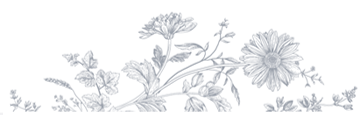
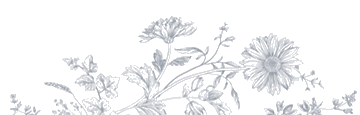
사이즈 수정

Changed region(s): [[0.0306, 0.1043, 1.0, 1.0]]

diff --git a/assets/scss/_partial/_title.scss b/assets/scss/_partial/_title.scss
@@ -14,7 +14,7 @@ $black : #222;
 
 section{
     &.cover{
-        padding: 10vh 15vw;
+        padding: 15vh 15vw;
         height: 80vh;
         border-bottom-left-radius: rem(100);
         border-bottom-right-radius: rem(100);
@@ -28,11 +28,17 @@ section{
     &.contWrapper{
         background: $bgColor;
     }
+    .upper,
+    .sub{
+        text-align: center;
+        color: $pointColor;
+        font-family: 'Great Vibes', cursive;
+    }
 }
 
 //weddingday
 .arch{
-    height: 20px;
+    height: 24px;
     position: relative;
     span{
         position: absolute;
@@ -57,12 +63,8 @@ section{
         text-align: center;
         // background: rgba(0,0,0,0.2);
     }
-    .upper,
-    .sub{
-        color: $pointColor;
-    }
-    .upper{
-        font-family: 'Great Vibes', cursive;
+    .year{
+        font-family: 'Gowun Batang', serif;
     }
     .main{
         margin-top: 6vh;
@@ -76,7 +78,7 @@ section{
             font-weight: 500;
         }
         h1{
-            font-size: 10vw;
+            font-size: rem(50);
             font-weight: normal;
             text-align: left;
             &.day{
@@ -97,9 +99,8 @@ section{
         }
         .name{
             margin-top: 7vh;
-            font-size: 4vw;
             span{
-                font-size: 3vw;
+                font-size: rem(16);
             }
         }
     }
@@ -120,9 +121,10 @@ section{
     }
     h3{
         color: $secondaryColor;
+        font-size: rem(16);
         font-family: 'NotoSansKR', sans-serif;
-        font-size: 3vw;
         font-weight: normal;
+        text-transform: uppercase;
         position: relative;
         &::after{
             content:'';
@@ -135,7 +137,7 @@ section{
         }
     }
     .cont{
-        margin-top: rem(70);
+        margin-top: rem(50);
         color: $mainColor;
     }    
 }
@@ -144,13 +146,11 @@ section{
 .invitation{
     .greeting{
         margin-top: rem(25);
-        font-size: 3vw;
-        line-height: 5vh;
+        line-height: 1.6;
     }
     .info{
         margin-top: rem(80);
-        font-size: 3vw;
-        line-height: 5vh;
+        line-height: 1.6;
         text-align: right;
         .space{
             margin-top: rem(30);
@@ -162,6 +162,7 @@ section{
         margin-top: rem(70);
         padding: rem(12) rem(30);
         color: $white;
+        font-size: rem(18);
         border-radius: rem(35);
         background: $secondaryColor;
     }
@@ -206,11 +207,12 @@ section{
 //달력
 .calendar{
     .cont{
+        margin-top: rem(10);
         padding: 0 rem(15);
         text-align: center;
     }
     .month{
-        font-size: 5vw;
+        font-size: rem(24);
     }
     table{
         margin: rem(60) 0;
@@ -255,12 +257,14 @@ section{
             }
         }
     }
+    .wDay{
+        font-weight: bold;
+    }
 }
 
 //save
 .save{
     padding: 1.875rem 0 !important;
-    font-size: 4vw;
     letter-spacing: 3px;
     text-align: center;
     text-transform: uppercase;
@@ -270,7 +274,7 @@ section{
 //교통
 .traffic{
     .means{
-        font-size: 3vw;
+        color: $secondaryColor;
         // font-family: "NotoSansKR", sans-serif;   
     }
     .info{
@@ -338,7 +342,7 @@ section{
             }
         }
         button{
-            padding: rem(9);
+            padding: rem(3) rem(9);
             color: $mainColor;
             background: transparent;
             border-radius: 4px;
@@ -355,6 +359,6 @@ section{
 .ending{
     text-align: center;
     color: $secondaryColor;
-    background: url(../img/endBg.png) no-repeat;
-    background-position: center bottom 0;
+    background: url(../img/endBg.png) bottom center;
+    background-repeat-y: no-repeat;
 }

diff --git a/assets/css/style.css b/assets/css/style.css
@@ -70,7 +70,7 @@ body {
 }
 
 section.cover {
-  padding: 10vh 15vw;
+  padding: 15vh 15vw;
   height: 80vh;
   border-bottom-left-radius: 6.25rem;
   border-bottom-right-radius: 6.25rem;
@@ -84,9 +84,15 @@ section.cover {
 section.contWrapper {
   background: #f8f9f8;
 }
+section .upper,
+section .sub {
+  text-align: center;
+  color: #edd2ad;
+  font-family: "Great Vibes", cursive;
+}
 
 .arch {
-  height: 20px;
+  height: 24px;
   position: relative;
 }
 .arch span {
@@ -127,12 +133,8 @@ section.contWrapper {
 .cover .wrapper {
   text-align: center;
 }
-.cover .upper,
-.cover .sub {
-  color: #edd2ad;
-}
-.cover .upper {
-  font-family: "Great Vibes", cursive;
+.cover .year {
+  font-family: "Gowun Batang", serif;
 }
 .cover .main {
   margin-top: 6vh;
@@ -146,7 +148,7 @@ section.contWrapper {
   font-weight: 500;
 }
 .cover .main h1 {
-  font-size: 10vw;
+  font-size: 3.125rem;
   font-weight: normal;
   text-align: left;
 }
@@ -167,10 +169,9 @@ section.contWrapper {
 }
 .cover .main .name {
   margin-top: 7vh;
-  font-size: 4vw;
 }
 .cover .main .name span {
-  font-size: 3vw;
+  font-size: 1rem;
 }
 .cover .sub {
   margin-top: 3vh;
@@ -186,9 +187,10 @@ section.contWrapper {
 }
 .contWrapper h3 {
   color: #acb0b6;
+  font-size: 1rem;
   font-family: "NotoSansKR", sans-serif;
-  font-size: 3vw;
   font-weight: normal;
+  text-transform: uppercase;
   position: relative;
 }
 .contWrapper h3::after {
@@ -201,19 +203,17 @@ section.contWrapper {
   left: 0;
 }
 .contWrapper .cont {
-  margin-top: 4.375rem;
+  margin-top: 3.125rem;
   color: #656b75;
 }
 
 .invitation .greeting {
   margin-top: 1.5625rem;
-  font-size: 3vw;
-  line-height: 5vh;
+  line-height: 1.6;
 }
 .invitation .info {
   margin-top: 5rem;
-  font-size: 3vw;
-  line-height: 5vh;
+  line-height: 1.6;
   text-align: right;
 }
 .invitation .info .space {
@@ -225,6 +225,7 @@ section.contWrapper {
   margin-top: 4.375rem;
   padding: 0.75rem 1.875rem;
   color: #fff;
+  font-size: 1.125rem;
   border-radius: 2.1875rem;
   background: #acb0b6;
 }
@@ -263,11 +264,12 @@ section.contWrapper {
 }
 
 .calendar .cont {
+  margin-top: 0.625rem;
   padding: 0 0.9375rem;
   text-align: center;
 }
 .calendar .month {
-  font-size: 5vw;
+  font-size: 1.5rem;
 }
 .calendar table {
   margin: 3.75rem 0;
@@ -310,10 +312,12 @@ section.contWrapper {
   left: 0;
   top: -50%;
 }
+.calendar .wDay {
+  font-weight: bold;
+}
 
 .save {
   padding: 1.875rem 0 !important;
-  font-size: 4vw;
   letter-spacing: 3px;
   text-align: center;
   text-transform: uppercase;
@@ -321,7 +325,7 @@ section.contWrapper {
 }
 
 .traffic .means {
-  font-size: 3vw;
+  color: #acb0b6;
 }
 .traffic .info {
   line-height: 24px;
@@ -386,7 +390,7 @@ section.contWrapper {
   border-top: 1px solid #acb0b6;
 }
 .account .accBody button {
-  padding: 0.5625rem;
+  padding: 0.1875rem 0.5625rem;
   color: #656b75;
   background: transparent;
   border-radius: 4px;
@@ -400,8 +404,8 @@ section.contWrapper {
 .ending {
   text-align: center;
   color: #acb0b6;
-  background: url(../img/endBg.png) no-repeat;
-  background-position: center bottom 0;
+  background: url(../img/endBg.png) bottom center;
+  background-repeat-y: no-repeat;
 }
 
 /*# sourceMappingURL=style.css.map */

diff --git a/weddingInvitation.html b/weddingInvitation.html
@@ -25,7 +25,7 @@
                     <span class="a">a</span>
                     <span class="y">y</span>
                 </p>
-                <p>2024</p>
+                <p class="year">2024</p>
             </div>
             <div class="main">
                 <div class="date">
@@ -105,7 +105,20 @@
 
         <!--달력-->
         <div class="calendar">
-            <h3 class="tit">gallery</h3>
+            <div class="upper">
+                <p class="arch">
+                    <span class="w">w</span>
+                    <span class="e">e</span>
+                    <span class="d0">d</span>
+                    <span class="d1">d</span>
+                    <span class="i">i</span>
+                    <span class="n">n</span>
+                    <span class="g">g</span>
+                    <span class="d2">d</span>
+                    <span class="a">a</span>
+                    <span class="y">y</span>
+                </p>
+            </div>
 
             <div class="cont">
                 <div class="January">
@@ -182,9 +195,9 @@
             <div class="cont">
                 <div class="way">
                     <div class="means">지하철</div>
-                    <div class="info">1, 3호선 연산역 7번 출구 도보 5분</div>
+                    <div class="info">[ 부산 1, 3호선 연산역 ] 7번 출구 도보 1분</div>
                     <div class="means">버스</div>
-                    <div class="info">1, 3호선 연산역 7번 출구 도보 5분</div>
+                    <div class="info">29, 51, 179, 189</div>
                     <div class="means">주소</div>
                     <div class="info">
                         부산 연제구 중앙대로 1125 시티타워<br>목화웨딩컨벤션 15F 벨리스홀
